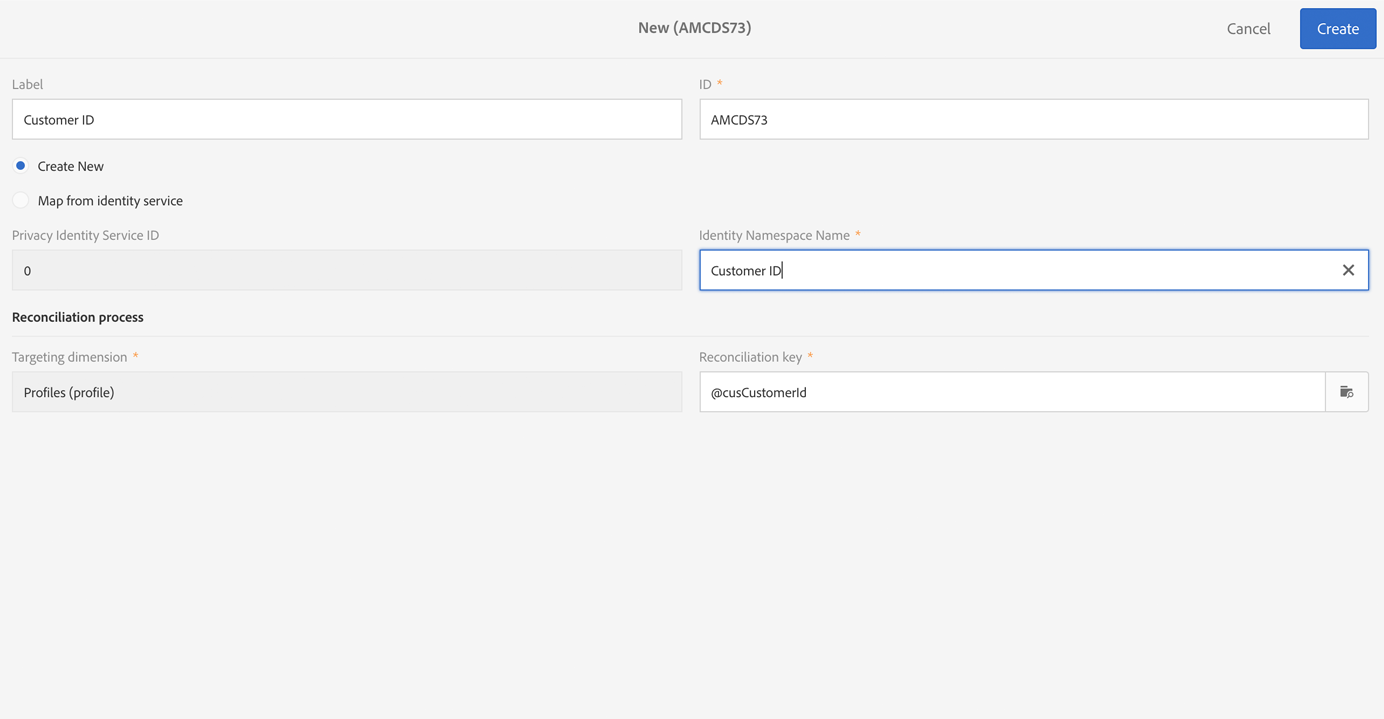
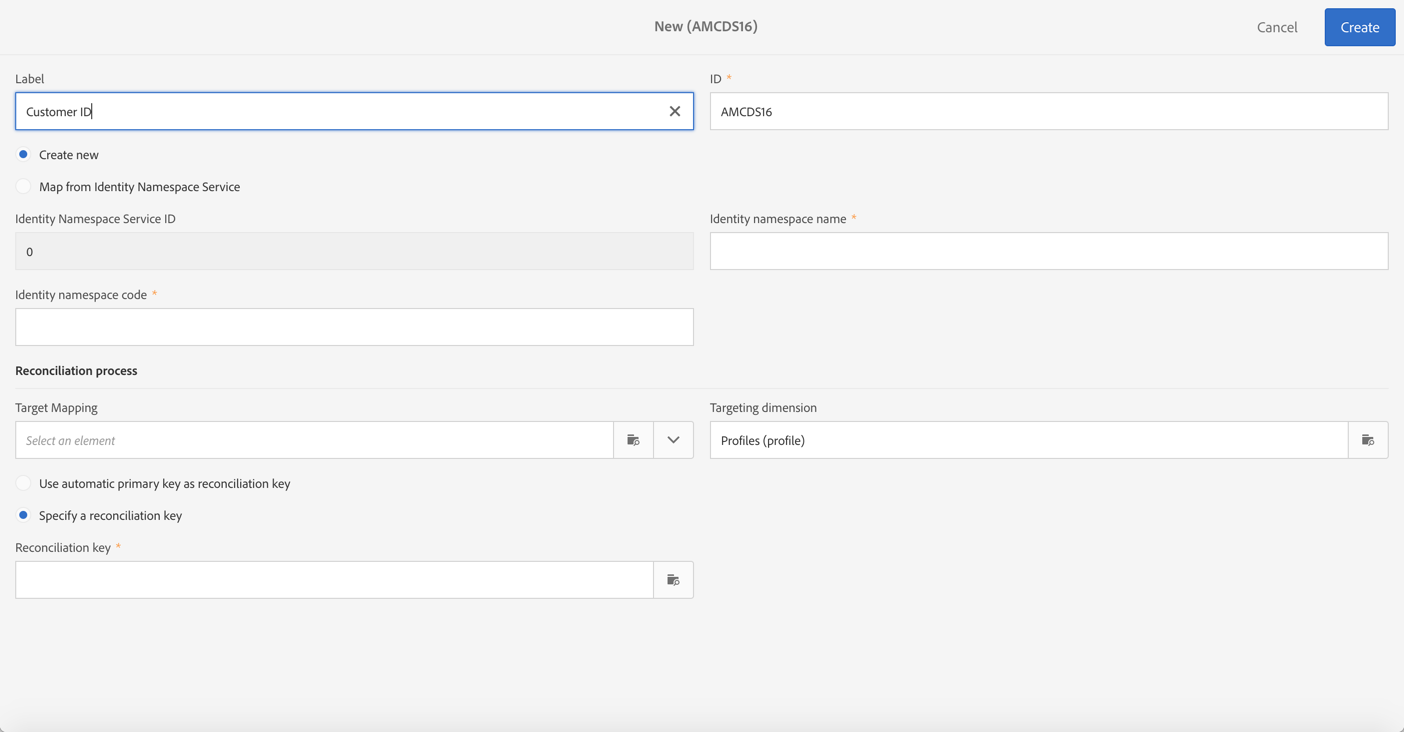
Privacy updates

diff --git a/help/start/using/privacy-requests.md b/help/start/using/privacy-requests.md
@@ -62,15 +62,19 @@ Also refer to this [tutorial](https://experienceleague.adobe.com/docs/campaign-s
 
     ![](assets/privacy-namespace-label.png)
 
-1. If you want to use an existing identity service namespace, choose **[!UICONTROL Map from Identity Namespace Service]** and select a namespace in the **[!UICONTROL Identity Service Namespaces]** field.
+1. If you want to use an existing identity service namespace, choose **[!UICONTROL Map from Identity Namespace Service]** and select a namespace from the **[!UICONTROL Identity Service Namespaces]** list.
 
-    If you want to create a new namespace in **[!UICONTROL Identity Service]** and map it in Campaign, select **[!UICONTROL Create new]** and enter a name in the **[!UICONTROL Identity Namespace Name]** field.
+    ![](assets/privacy-map-from-namespace.png)
+
+    If you want to create a new namespace in **[!UICONTROL Identity Service]** and map it in Campaign, select **[!UICONTROL Create new]** and enter a name in the **[!UICONTROL Identity namespace name]** field.
+
+    ![](assets/privacy-create-new-namespace.png)
 
     To learn more about identity namespaces, refer to this [page](https://experienceleague.adobe.com/docs/experience-platform/identity/namespaces.html?lang=en).
 
 1. One Identity Service Namespace is mapped to one namespace in Campaign. You need to specify how the namespace will be reconciled in Campaign.
 
-    Select a target mapping (Recipients, Real-time event or Subscriptions to an application). If you want to use several target mappings, you need to create one namespace per target mapping.
+    Select a target mapping (**[!UICONTROL Recipients]**, **[!UICONTROL Real-time event]** or **[!UICONTROL Subscriptions to an application]**). If you want to use several target mappings, you need to create one namespace per target mapping.
 
 1. Choose the **[!UICONTROL Reconciliation key]**. This is the field that will be used to identify the Data Subject in the Adobe Campaign database.
 
